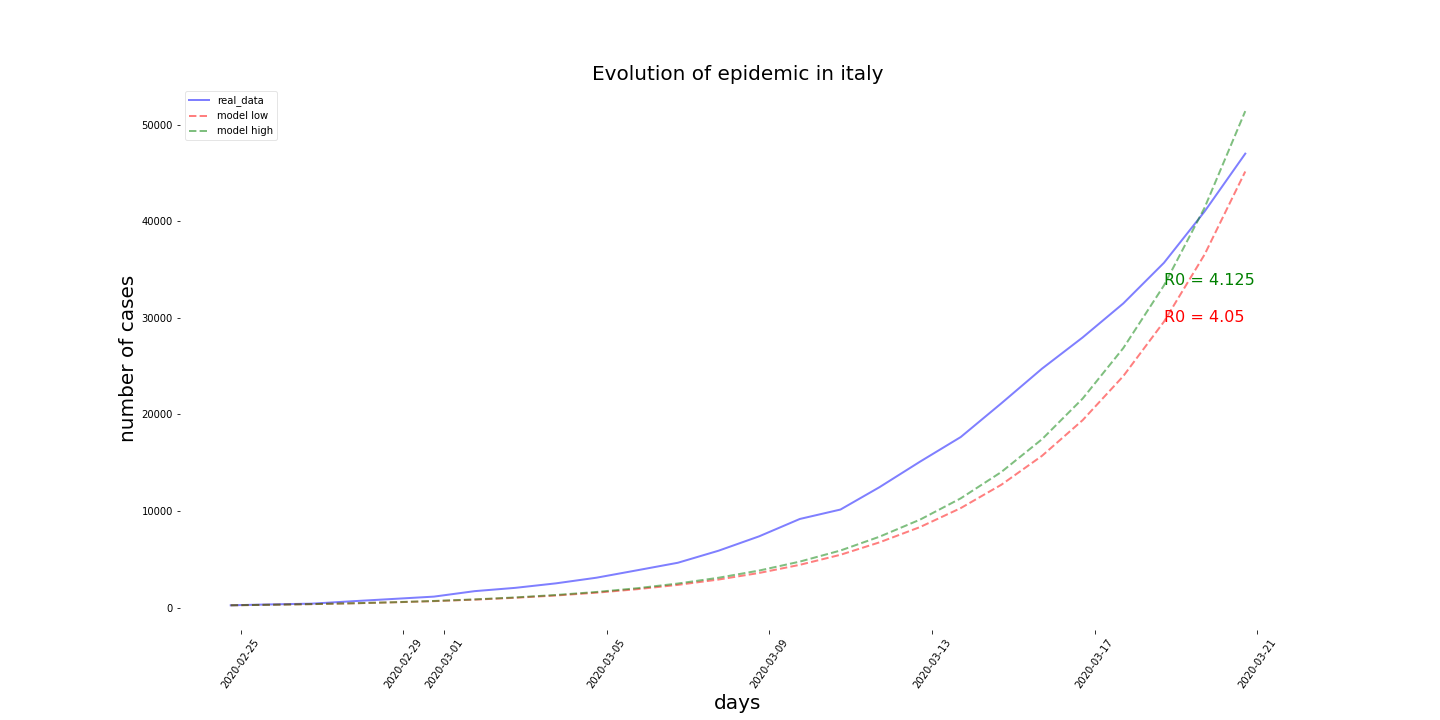
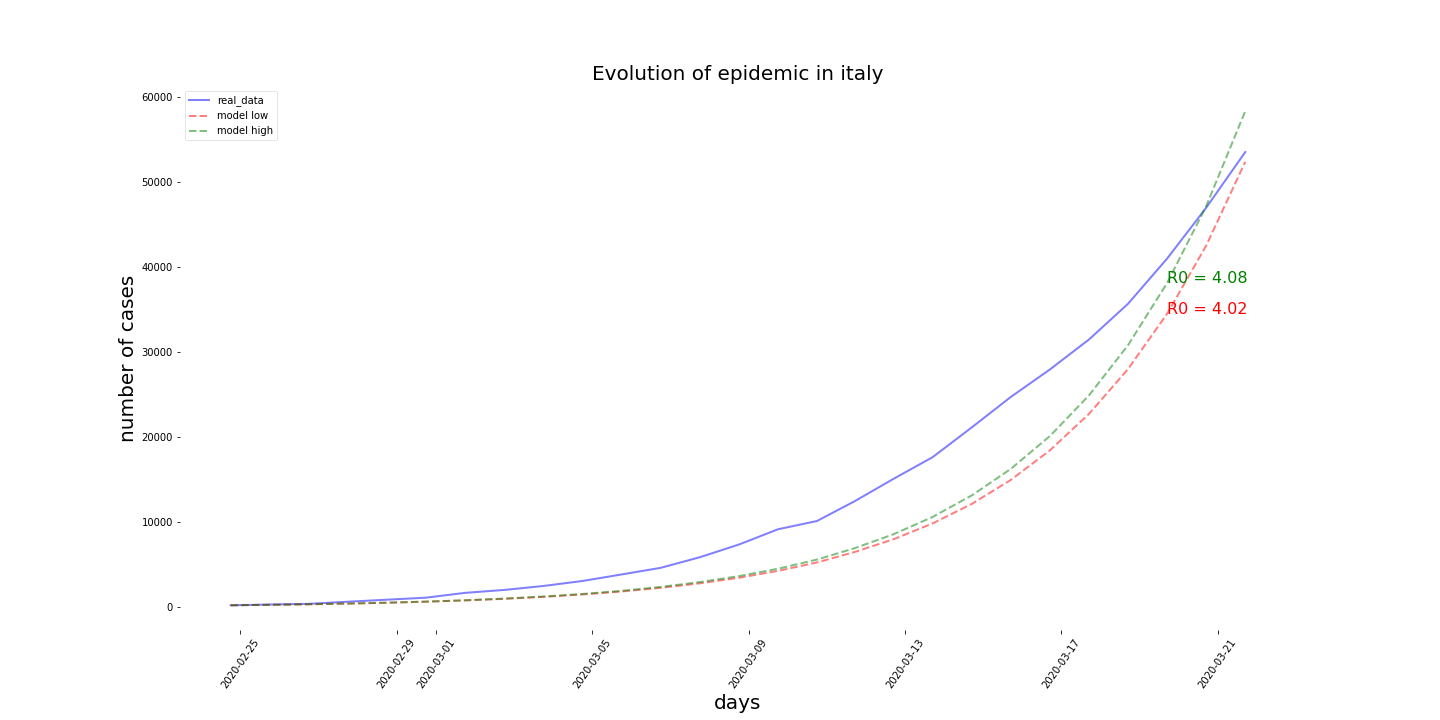
updated plots

diff --git a/README.md b/README.md
@@ -44,8 +44,9 @@ dR/dt = γ I(t)
 ![picture alt](https://github.com/giovanniguidi/COVID-19-italy/blob/master/images/modelling.png "")
 
 
-## To do
+## Challenges
 
+- [x] modelling the quaratine and see discrepancy with real data
 - [x] compare R0 among different regions and provinces
 - [x] find best &beta; and &gamma; with L-BFGS-B optimization, and study the evolution of R0 on time
 - [x] data-driven modelling (time-series)
